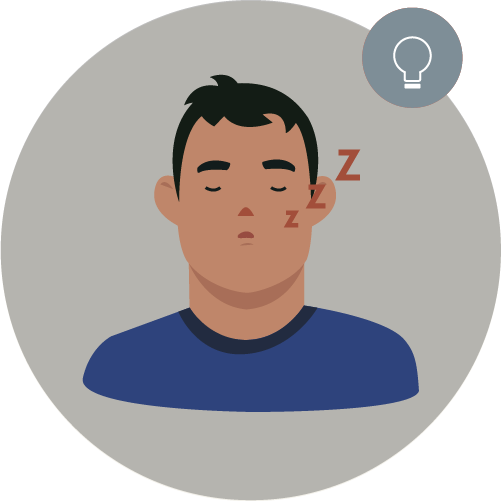
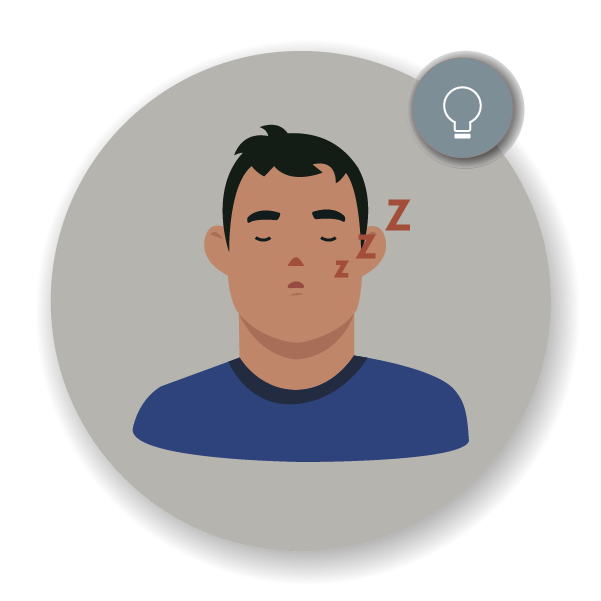
Atualização imagem persongame, com sombra

diff --git a/src/pages/historiador/historiador.scss b/src/pages/historiador/historiador.scss
@@ -37,7 +37,7 @@ page-historiador {
   }
 
   .fab-md-in-list {
-    background-color: rgb(245, 230, 227);
+    background-color: #F5F3E9;
   }
 
   .botaoPaletaCores {
@@ -265,18 +265,22 @@ page-historiador {
   }
 
   .jose {
-    display: block;
     position: relative;
     transform: scale(0.3);
     content: url("/assets/imgs/personagem/jose-explicando.png");
     cursor: pointer;
+    border-radius: 100%;
+    -webkit-transition: 2s linear;
+    bottom: 307%;
+    right: -65%;
+    /*
+    display: block;
     background-color: transparent;
     color: transparent;
     box-shadow:  12px 9px 60px 40px #4242428f;
-    border-radius: 100%;  
-    -webkit-transition: 2s linear;    
     bottom: 260%;
-    right: -70%;  
+    right: -70%;
+    */
   }
 
   .explicando {
